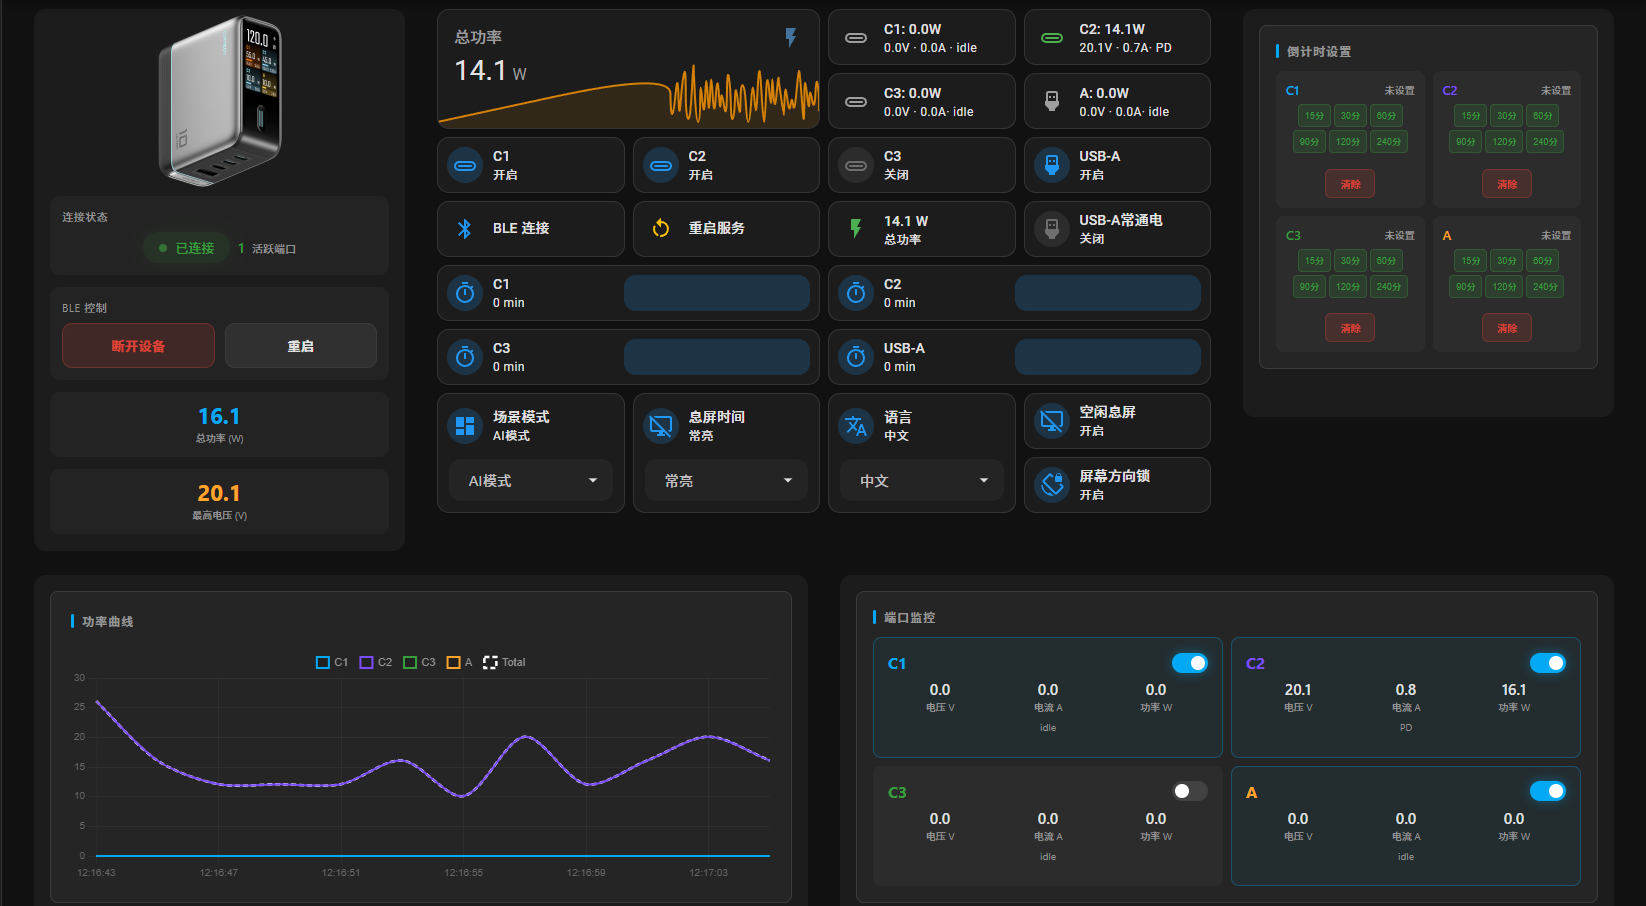
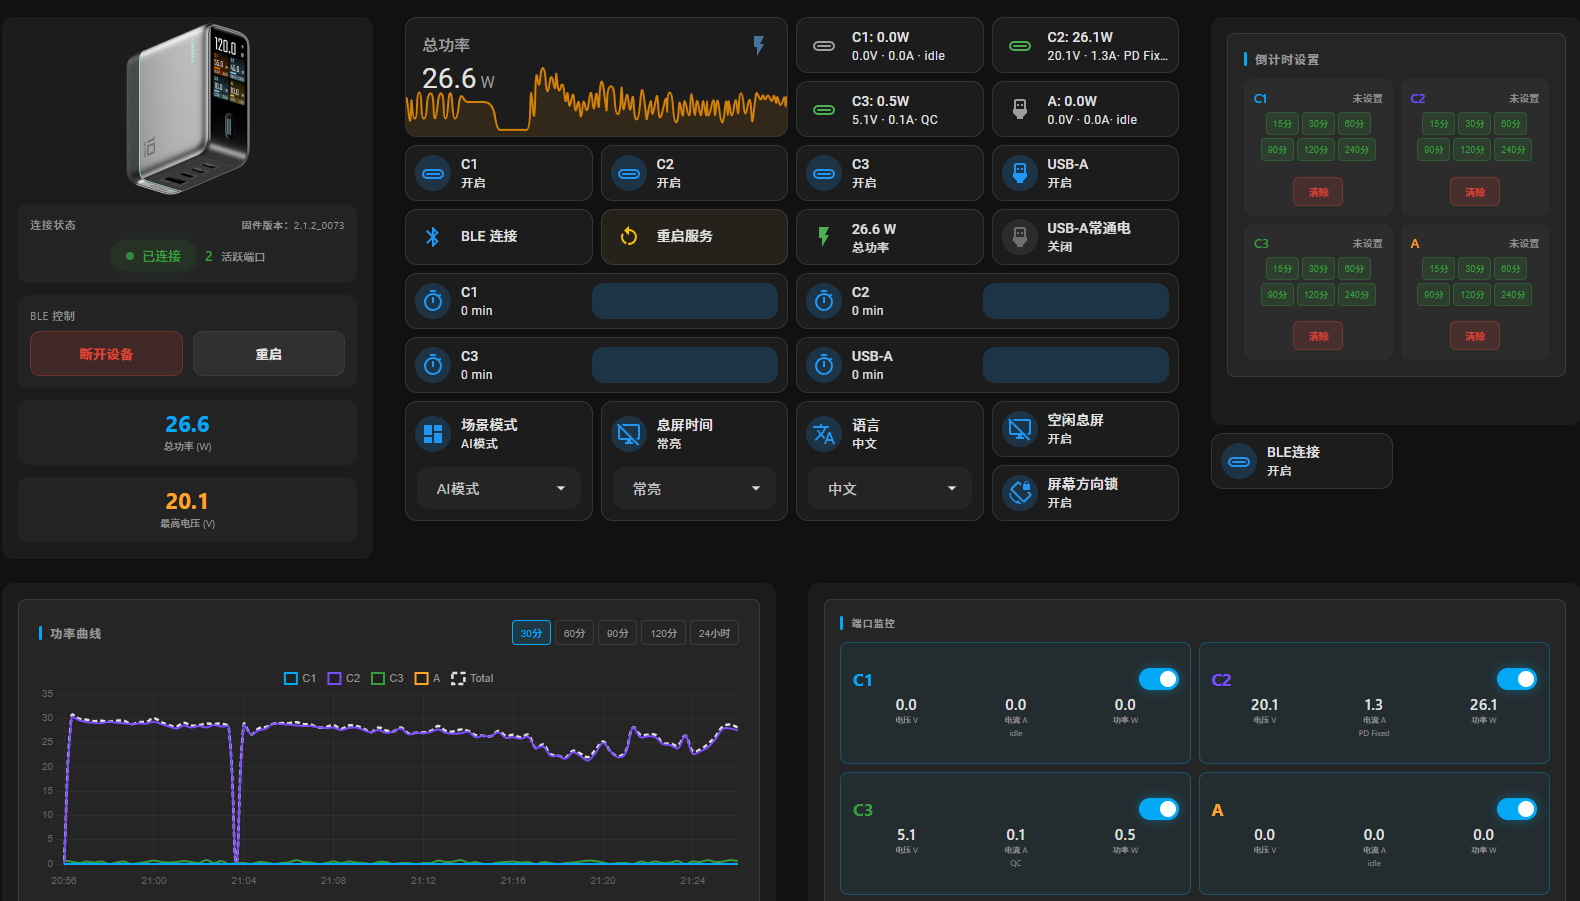
docs: update documentation, Lovelace examples and Web UI

diff --git a/ble_server/web/static/app.js b/ble_server/web/static/app.js
@@ -145,7 +145,7 @@
         ];
 
         let lastSettings = {};
-        let powerChart = null, modalChart = null, currentModalPort = null;
+        let powerChart = null, modalChart = null, currentModalPort = null, latestPorts = {};
         let bleConnected = false;
         const portHistory = {
             1: { voltage: [], current: [], power: [], protocol: [] },
@@ -272,7 +272,8 @@
             document.getElementById('modalPower').textContent = (h.power[h.power.length - 1] || 0).toFixed(1);
             const protocolEl = document.getElementById('modalProtocol');
             if (protocolEl) {
-                const lastProtocol = h.protocol ? h.protocol[h.protocol.length - 1] : 'idle';
+                const portData = latestPorts[currentModalPort];
+                const lastProtocol = portData ? portData.protocol : 'idle';
                 protocolEl.textContent = lastProtocol;
                 protocolEl.style.color = lastProtocol !== 'idle' ? 'var(--accent)' : 'var(--text-dim)';
             }
@@ -291,6 +292,7 @@
 
         function updateUI(data) {
             bleConnected = data.connected && data.authenticated;
+            latestPorts = data.ports || {};
             updateStatusBadge(data.connected, data.authenticated, data.mqtt_connected);
             updateBleButton();
             renderPorts(data.ports);
@@ -427,8 +429,7 @@
                                 ${QUICK_MINUTES.map(m => `<button class="countdown-quick-btn" onclick="setCountdown('${key}', ${m})">${m}分</button>`).join('')}
                             </div>
                             <div class="countdown-actions">
-                                <button class="countdown-set-btn" onclick="setCountdownFromInput('${key}')">设置</button>
-                                <button class="countdown-clear-btn" onclick="setCountdown('${key}', 0)">清除</button>
+                                <button class="countdown-toggle-btn set" id="countdown-btn-${key}" onclick="handleCountdownAction('${key}')">设置</button>
                             </div>
                         </div>`;
                 }
@@ -443,6 +444,16 @@
                 if (statusEl) {
                     statusEl.textContent = currentVal > 0 ? currentVal + '分钟' : '未设置';
                 }
+                const btn = document.getElementById(`countdown-btn-${key}`);
+                if (btn && !btn.disabled) {
+                    if (currentVal > 0) {
+                        btn.textContent = '清除';
+                        btn.className = 'countdown-toggle-btn clear';
+                    } else {
+                        btn.textContent = '设置';
+                        btn.className = 'countdown-toggle-btn set';
+                    }
+                }
             }
         }
 
@@ -452,12 +463,24 @@
             if (countdownPending[port]) return;
             countdownPending[port] = true;
             const id = PORT_KEY_TO_ID[port];
-            const btn = document.querySelector(`#countdownGrid .countdown-item:nth-child(${id}) .countdown-set-btn`);
+            const btn = document.getElementById(`countdown-btn-${port}`);
             const statusEl = document.getElementById(`countdown-status-${port}`);
-            if (btn) { btn.disabled = true; btn.textContent = '设置中...'; }
+            const isClear = minutes === 0;
+            if (btn) { btn.disabled = true; btn.textContent = isClear ? '清除中...' : '设置中...'; }
             const expectedText = minutes > 0 ? minutes + '分钟' : '未设置';
+            const revertBtn = () => {
+                if (btn) {
+                    btn.disabled = false;
+                    btn.textContent = isClear ? '清除' : '设置';
+                    btn.className = `countdown-toggle-btn ${isClear ? 'clear' : 'set'}`;
+                }
+                if (!isClear) {
+                    const input = document.getElementById(`countdown-${port}`);
+                    if (input) input.value = '';
+                }
+            };
             const piid = COUNTDOWN_PIIDS[id];
-            if (!piid) { countdownPending[port] = false; if (btn) { btn.disabled = false; btn.textContent = '设置'; } return; }
+            if (!piid) { countdownPending[port] = false; revertBtn(); return; }
             try {
                 await fetch(`${API_BASE}/api/set`, { method: 'POST', headers: { 'Content-Type': 'application/json' }, body: JSON.stringify({ piid, value: minutes }) });
                 fetchStatus();
@@ -466,21 +489,32 @@
                         if (statusEl.textContent === expectedText) {
                             observer.disconnect();
                             countdownPending[port] = false;
-                            if (btn) { btn.disabled = false; btn.textContent = '设置'; }
+                            revertBtn();
                         }
                     });
                     observer.observe(statusEl, { childList: true, characterData: true, subtree: true });
-                    setTimeout(() => { observer.disconnect(); countdownPending[port] = false; if (btn) { btn.disabled = false; btn.textContent = '设置'; } }, 10000);
+                    setTimeout(() => { observer.disconnect(); countdownPending[port] = false; revertBtn(); }, 10000);
                 } else {
-                    setTimeout(() => { countdownPending[port] = false; if (btn) { btn.disabled = false; btn.textContent = '设置'; } }, 3000);
+                    setTimeout(() => { countdownPending[port] = false; revertBtn(); }, 3000);
                 }
-            } catch (e) { console.error('Set countdown error:', e); countdownPending[port] = false; if (btn) { btn.disabled = false; btn.textContent = '设置'; } }
+            } catch (e) { console.error('Set countdown error:', e); countdownPending[port] = false; revertBtn(); }
         }
 
         function setCountdownFromInput(port) {
             const input = document.getElementById(`countdown-${port}`);
             const minutes = parseInt(input.value) || 0;
             setCountdown(port, minutes);
+        }
+
+        function handleCountdownAction(port) {
+            const btn = document.getElementById(`countdown-btn-${port}`);
+            if (btn && btn.classList.contains('clear')) {
+                setCountdown(port, 0);
+            } else {
+                const input = document.getElementById(`countdown-${port}`);
+                if (!input.value || parseInt(input.value) <= 0) return;
+                setCountdownFromInput(port);
+            }
         }
 
         async function bleToggle() {

diff --git a/ble_server/web/static/port_monitor.html b/ble_server/web/static/port_monitor.html
@@ -9,7 +9,7 @@
     <script src="/static/chart-config.js"></script>
     <style>
         * { margin: 0; padding: 0; box-sizing: border-box; }
-        html, body { height: 100%; overflow: hidden; }
+        html, body { height: 100%; }
         :root {
             --bg: #1c1c1c; --card-bg: #252525; --card-border: #3b3b3b;
             --text: #e1e1e1; --text-dim: #959595;
@@ -20,43 +20,43 @@
             --border-radius: 8px;
         }
         body { font-family: -apple-system, BlinkMacSystemFont, 'Segoe UI', Roboto, 'Noto Sans SC', sans-serif; background: var(--bg); color: var(--text); padding: 16px; }
-        .card { background: var(--card-bg); border: 1px solid var(--card-border); border-radius: var(--border-radius); padding: 16px; height: calc(100% - 32px); display: flex; flex-direction: column; overflow: hidden; }
-        .card-title { font-size: 12px; font-weight: 600; color: var(--text-dim); text-transform: uppercase; letter-spacing: 1px; margin-bottom: 12px; display: flex; align-items: center; gap: 8px; flex-shrink: 0; }
+        .card { background: var(--card-bg); border: 1px solid var(--card-border); border-radius: var(--border-radius); padding: clamp(12px, 2vw, 24px); height: calc(100% - 32px); display: flex; flex-direction: column; overflow-y: auto; }
+        .card-title { font-size: clamp(10px, 1.2vw, 14px); font-weight: 600; color: var(--text-dim); text-transform: uppercase; letter-spacing: 1px; margin-bottom: clamp(8px, 1.5vw, 16px); display: flex; align-items: center; gap: 8px; flex-shrink: 0; }
         .card-title::before { content: ''; width: 3px; height: 14px; background: var(--accent); border-radius: 2px; }
-        .port-grid { display: grid; grid-template-columns: repeat(2, 1fr); gap: 8px; flex: 1; min-height: 0; overflow: hidden; }
-        .port-card { background: rgba(255, 255, 255, 0.03); border-radius: 8px; padding: 14px; border: 1px solid transparent; transition: all 0.3s; cursor: pointer; display: flex; flex-direction: column; min-height: 0; overflow: hidden; }
+        .port-grid { display: grid; grid-template-columns: repeat(2, 1fr); gap: clamp(6px, 1vw, 12px); flex: 1; min-height: 0; }
+        .port-card { background: rgba(255, 255, 255, 0.03); border-radius: clamp(6px, 1vw, 12px); padding: clamp(8px, 2.5vh, 20px) clamp(6px, 1.5vw, 20px); border: 1px solid transparent; transition: all 0.3s; cursor: pointer; display: flex; flex-direction: column; justify-content: center; min-height: max(80px, 18vh); }
         .port-card:hover { border-color: rgba(var(--accent-rgb), 0.3); }
         .port-card.active { border-color: rgba(var(--accent-rgb), 0.3); background: rgba(var(--accent-rgb), 0.05); }
-        .port-header { display: flex; align-items: center; justify-content: space-between; margin-bottom: 6px; }
-        .port-name { font-size: 16px; font-weight: 700; }
+        .port-header { display: flex; align-items: center; justify-content: space-between; margin-bottom: clamp(3px, 0.8vh, 10px); }
+        .port-name { font-size: clamp(14px, 2.2vw, 22px); font-weight: 700; }
         .port-name.c1 { color: var(--port-c1); }
         .port-name.c2 { color: var(--port-c2); }
         .port-name.c3 { color: var(--port-c3); }
         .port-name.a { color: var(--port-a); }
-        .port-stats { display: grid; grid-template-columns: repeat(3, 1fr); gap: 4px; }
+        .port-stats { display: grid; grid-template-columns: repeat(3, 1fr); gap: clamp(2px, 0.4vw, 8px); }
         .port-stat { text-align: center; }
-        .port-stat-value { font-size: 15px; font-weight: 600; }
-        .port-stat-label { font-size: 10px; color: var(--text-dim); text-transform: uppercase; }
-        .port-toggle { position: relative; width: 36px; height: 20px; }
+        .port-stat-value { font-size: clamp(13px, 2vw, 20px); font-weight: 600; }
+        .port-stat-label { font-size: clamp(8px, 1vw, 11px); color: var(--text-dim); text-transform: uppercase; }
+        .port-toggle { position: relative; width: 40px; height: 22px; }
         .port-toggle input { opacity: 0; width: 0; height: 0; }
         .toggle-slider { position: absolute; cursor: pointer; top: 0; left: 0; right: 0; bottom: 0; background: rgba(255, 255, 255, 0.1); border-radius: 20px; transition: 0.3s; }
-        .toggle-slider:before { content: ""; position: absolute; height: 14px; width: 14px; left: 3px; bottom: 3px; background: #fff; border-radius: 50%; transition: 0.3s; }
+        .toggle-slider:before { content: ""; position: absolute; height: 16px; width: 16px; left: 3px; bottom: 3px; background: #fff; border-radius: 50%; transition: 0.3s; }
         .port-toggle input:checked + .toggle-slider { background: var(--accent); box-shadow: 0 0 12px rgba(var(--accent-rgb), 0.4); }
-        .port-toggle input:checked + .toggle-slider:before { transform: translateX(16px); }
-        .port-protocol { text-align: center; margin-top: 6px; font-size: 10px; color: var(--text-dim); }
+        .port-toggle input:checked + .toggle-slider:before { transform: translateX(18px); }
+        .port-protocol { text-align: center; margin-top: clamp(2px, 0.6vh, 8px); font-size: clamp(8px, 1vw, 12px); color: var(--text-dim); }
         .modal-overlay { display: none; position: fixed; top: 0; left: 0; right: 0; bottom: 0; background: rgba(0, 0, 0, 0.8); z-index: 100; justify-content: center; align-items: center; padding: 20px; }
         .modal-overlay.show { display: flex; }
-        .modal { background: var(--card-bg); border: 1px solid var(--card-border); border-radius: var(--border-radius); padding: 16px; width: 100%; height: 100%; max-width: 100%; max-height: 100%; display: flex; flex-direction: column; overflow: hidden; }
-        .modal-header { display: flex; align-items: center; justify-content: space-between; margin-bottom: 12px; flex-shrink: 0; }
-        .modal-title { font-size: 16px; font-weight: 600; }
-        .modal-close { width: 28px; height: 28px; border: none; border-radius: 50%; background: rgba(255, 255, 255, 0.1); color: var(--text); font-size: 16px; cursor: pointer; display: flex; align-items: center; justify-content: center; }
+        .modal { background: var(--card-bg); border: 1px solid var(--card-border); border-radius: var(--border-radius); padding: clamp(10px, 2vh, 24px); width: 100%; height: 100%; max-width: 100%; max-height: 100%; display: flex; flex-direction: column; overflow: hidden; }
+        .modal-header { display: flex; align-items: center; justify-content: space-between; margin-bottom: clamp(6px, 1.2vh, 16px); flex-shrink: 0; }
+        .modal-title { font-size: clamp(14px, 2vw, 22px); font-weight: 600; }
+        .modal-close { width: clamp(24px, 3vw, 32px); height: clamp(24px, 3vw, 32px); border: none; border-radius: 50%; background: rgba(255, 255, 255, 0.1); color: var(--text); font-size: clamp(14px, 1.8vw, 18px); cursor: pointer; display: flex; align-items: center; justify-content: center; }
         .modal-close:hover { background: rgba(255, 255, 255, 0.2); }
-        .modal-stats { display: grid; grid-template-columns: repeat(4, 1fr); gap: 8px; margin-bottom: 12px; flex-shrink: 0; }
-        .power-item { text-align: center; padding: 10px 6px; background: rgba(255, 255, 255, 0.03); border-radius: 8px; }
-        .power-value { font-size: 20px; font-weight: 700; color: var(--accent); line-height: 1; }
+        .modal-stats { display: grid; grid-template-columns: repeat(4, 1fr); gap: clamp(4px, 0.8vh, 12px); margin-bottom: clamp(6px, 1.2vh, 16px); flex-shrink: 0; }
+        .power-item { text-align: center; padding: clamp(6px, 1.5vh, 14px) clamp(3px, 0.6vw, 10px); background: rgba(255, 255, 255, 0.03); border-radius: clamp(5px, 1vh, 10px); }
+        .power-value { font-size: clamp(16px, 2.5vw, 28px); font-weight: 700; color: var(--accent); line-height: 1; }
         .power-value.success { color: var(--success); }
         .power-value.warning { color: var(--warning); }
-        .power-label { font-size: 9px; color: var(--text-dim); margin-top: 4px; text-transform: uppercase; }
+        .power-label { font-size: clamp(7px, 0.9vw, 11px); color: var(--text-dim); margin-top: clamp(1px, 0.4vh, 6px); text-transform: uppercase; }
         .modal-chart-container { position: relative; flex: 1; min-height: 0; }
         .modal-chart-container canvas { width: 100% !important; height: 100% !important; }
     </style>
@@ -77,7 +77,7 @@
                 <div class="power-item"><div class="power-value" id="modalVoltage">0.0</div><div class="power-label">电压 V</div></div>
                 <div class="power-item"><div class="power-value success" id="modalCurrent">0.0</div><div class="power-label">电流 A</div></div>
                 <div class="power-item"><div class="power-value warning" id="modalPower">0.0</div><div class="power-label">功率 W</div></div>
-                <div class="power-item"><div class="power-value" id="modalProtocol" style="font-size:12px">idle</div><div class="power-label">协议</div></div>
+                <div class="power-item"><div class="power-value" id="modalProtocol">idle</div><div class="power-label">实时充电协议</div></div>
             </div>
             <div class="modal-chart-container"><canvas id="modalChart"></canvas></div>
         </div>

diff --git a/ble_server/web/index.html b/ble_server/web/index.html
@@ -126,18 +126,19 @@
         .countdown-port.c3 { color: var(--port-c3); }
         .countdown-port.a { color: var(--port-a); }
         .countdown-current { font-size: 12px; color: var(--text-dim); }
-        .countdown-input-group { display: flex; gap: 8px; margin-bottom: 10px; }
-        .countdown-input { flex: 1; padding: 8px 12px; border: 1px solid var(--card-border); border-radius: 8px; background: var(--bg); color: var(--text); font-size: 14px; text-align: center; min-width: 60px; max-width: 100px; }
+        .countdown-input-group { display: flex; gap: 8px; margin-bottom: 10px; justify-content: center; }
+        .countdown-input { padding: 8px 12px; border: 1px solid var(--card-border); border-radius: 8px; background: var(--bg); color: var(--text); font-size: 14px; text-align: center; width: 100px; }
         .countdown-input:focus { outline: none; border-color: var(--accent); }
         .countdown-unit { padding: 8px 12px; border: 1px solid var(--card-border); border-radius: 8px; background: rgba(255, 255, 255, 0.03); color: var(--text-dim); font-size: 12px; display: flex; align-items: center; }
-        .countdown-quick { display: flex; gap: 6px; flex-wrap: wrap; }
+        .countdown-quick { display: flex; gap: 6px; flex-wrap: wrap; justify-content: center; }
         .countdown-quick-btn { padding: 6px 10px; border: 1px solid rgba(255, 255, 255, 0.15); border-radius: 6px; background: rgba(255, 255, 255, 0.08); color: var(--text); font-size: 11px; cursor: pointer; transition: all 0.2s; }
         .countdown-quick-btn:hover { background: rgba(var(--accent-rgb), 0.2); border-color: var(--accent); color: var(--accent); }
         .countdown-actions { display: flex; gap: 8px; margin-top: 10px; }
-        .countdown-set-btn { flex: 1; padding: 8px; border: none; border-radius: 8px; background: rgba(var(--accent-rgb), 0.15); color: var(--accent); font-size: 12px; font-weight: 600; cursor: pointer; transition: all 0.2s; border: 1px solid rgba(var(--accent-rgb), 0.2); }
-        .countdown-set-btn:hover { background: rgba(var(--accent-rgb), 0.25); box-shadow: 0 2px 12px rgba(var(--accent-rgb), 0.2); }
-        .countdown-clear-btn { padding: 8px 12px; border: 1px solid rgba(255, 255, 255, 0.15); border-radius: 8px; background: rgba(255, 255, 255, 0.06); color: var(--text); font-size: 12px; cursor: pointer; transition: all 0.2s; }
-        .countdown-clear-btn:hover { border-color: var(--danger); color: var(--danger); background: rgba(var(--danger-rgb), 0.1); }
+        .countdown-toggle-btn { flex: 1; padding: 8px; border-radius: 8px; font-size: 12px; font-weight: 600; cursor: pointer; transition: all 0.2s; }
+        .countdown-toggle-btn.set { background: rgba(var(--accent-rgb), 0.15); color: var(--accent); border: 1px solid rgba(var(--accent-rgb), 0.2); }
+        .countdown-toggle-btn.set:hover { background: rgba(var(--accent-rgb), 0.25); box-shadow: 0 2px 12px rgba(var(--accent-rgb), 0.2); }
+        .countdown-toggle-btn.clear { background: rgba(var(--danger-rgb), 0.12); color: var(--danger); border: 1px solid rgba(var(--danger-rgb), 0.3); }
+        .countdown-toggle-btn.clear:hover { background: rgba(var(--danger-rgb), 0.25); box-shadow: 0 2px 12px rgba(var(--danger-rgb), 0.15); }
         @media (max-width: 600px) {
             .charger-layout { grid-template-columns: 1fr; }
             .charger-image { max-height: 150px; }
@@ -215,13 +216,13 @@
         </div>
 
         <div class="card">
-            <div class="card-title">设备设置</div>
-            <div class="settings-grid" id="settingsGrid"></div>
+            <div class="card-title">倒计时设置</div>
+            <div class="countdown-grid" id="countdownGrid"></div>
         </div>
 
         <div class="card">
-            <div class="card-title">倒计时设置</div>
-            <div class="countdown-grid" id="countdownGrid"></div>
+            <div class="card-title">设备设置</div>
+            <div class="settings-grid" id="settingsGrid"></div>
         </div>
 
         <div class="footer">
@@ -273,7 +274,7 @@
                 <div class="power-item"><div class="power-value" id="modalVoltage">0.0</div><div class="power-label">电压 (V)</div></div>
                 <div class="power-item"><div class="power-value success" id="modalCurrent">0.0</div><div class="power-label">电流 (A)</div></div>
                 <div class="power-item"><div class="power-value warning" id="modalPower">0.0</div><div class="power-label">功率 (W)</div></div>
-                <div class="power-item"><div class="power-value" id="modalProtocol" style="font-size:14px">idle</div><div class="power-label">协议</div></div>
+                <div class="power-item"><div class="power-value" id="modalProtocol">idle</div><div class="power-label">实时充电协议</div></div>
             </div>
             <div class="modal-chart-container"><canvas id="modalChart"></canvas></div>
         </div>

diff --git a/README.md b/README.md
@@ -11,9 +11,9 @@
 
 ## 效果预览
 
-![HA Integration](https://raw.githubusercontent.com/kairui1108/cuktech-ble-ha/main/docs/ha_integration.png)
+![HA Integration](./docs/ha_integration.png)
 
-![HA Lovelace](https://raw.githubusercontent.com/kairui1108/cuktech-ble-ha/main/docs/ha_lovelace.png)
+![HA Lovelace](./docs/ha_lovelace.png)
 
 ## 功能特性
 